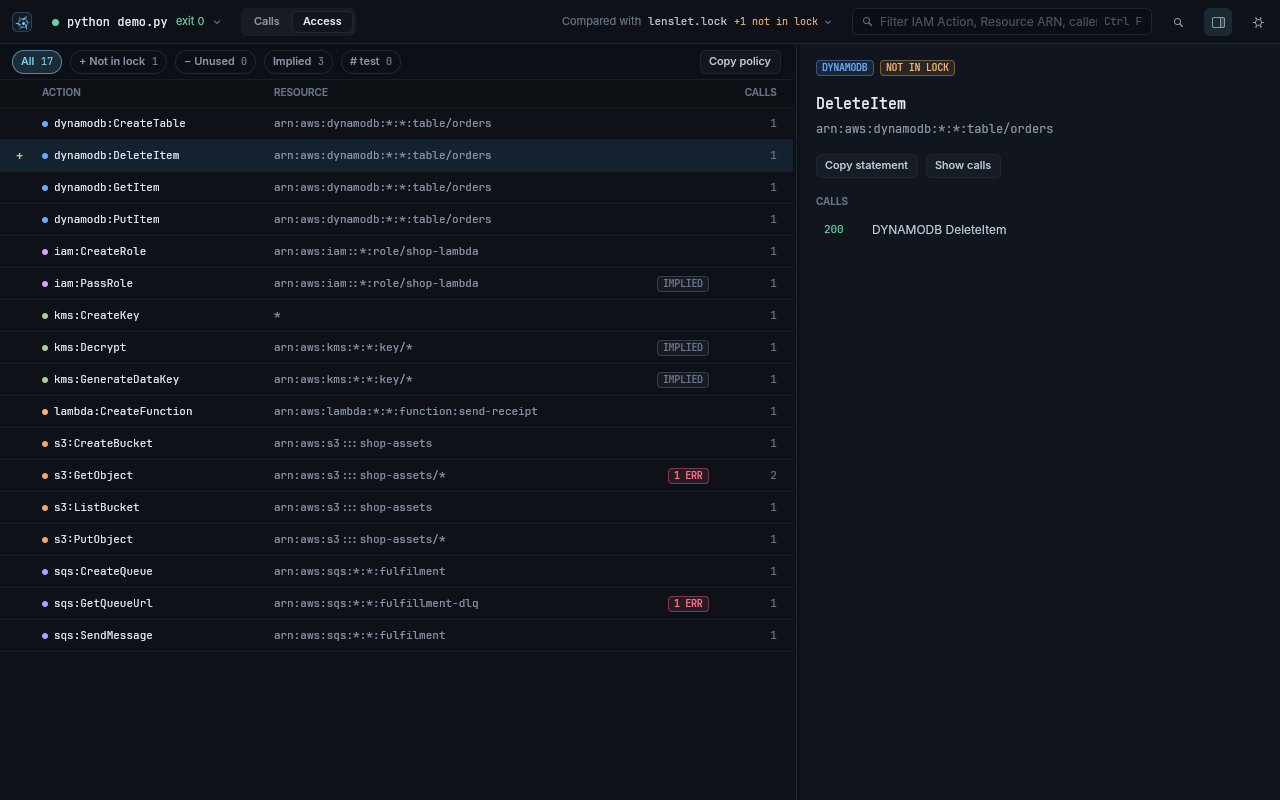
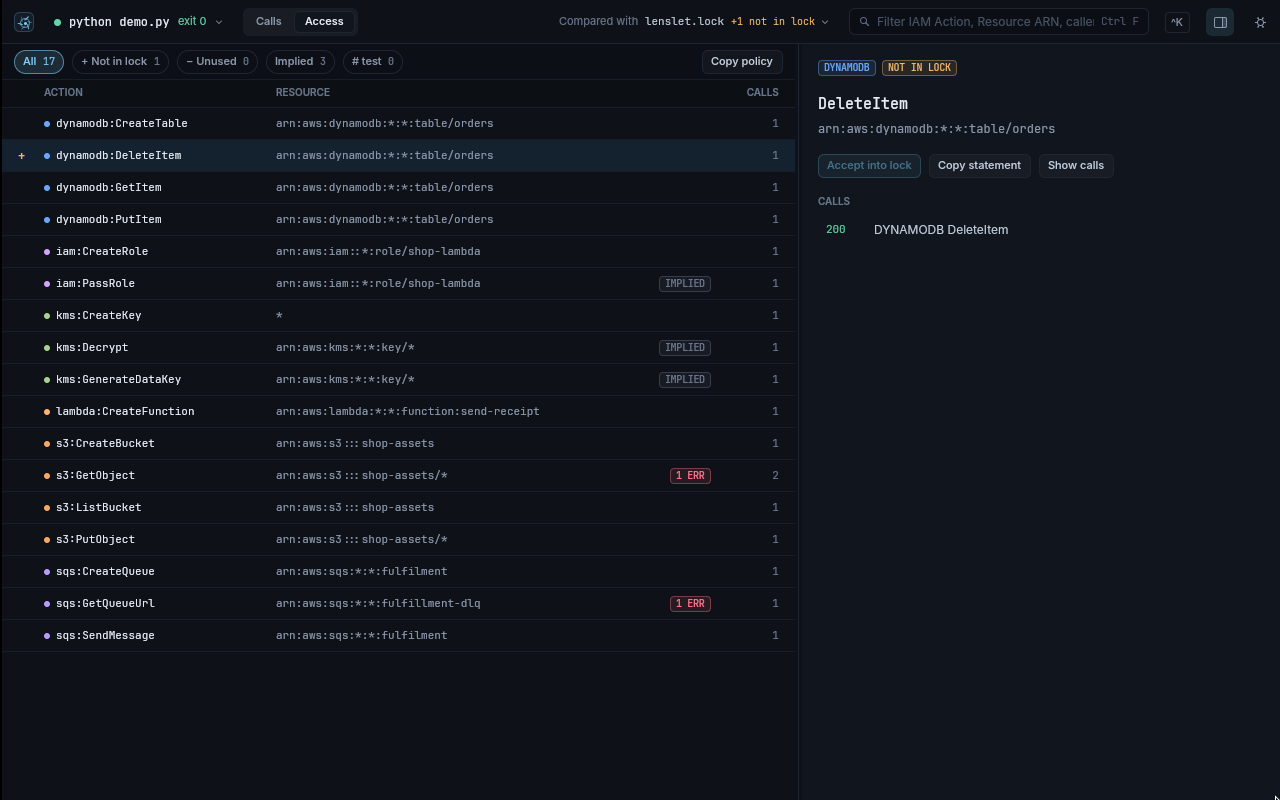
integrate the window with the 8.0 core
- Window lock edits go through lenslet_core::lock (atomic, canonical, one
  writer); marking a permission # test that the lock lacks accepts it as test.
- Follow the core schema additions (blocked_phase, unverified).
- Replays are experiments on top of a run: they no longer read as SDK
  retries, repeat failures or retry chains.
- Accept into lock stays visible (disabled, with the reason) when a run has
  no lock to write; the palette button is a ⌘K key-cap, not a second
  magnifier next to search.
- Screenshots retaken with live findings.

Claude-Session: https://claude.ai/code/session_01Ua4GqEsoxPpktcUePSRyBS

diff --git a/crates/ui/src/lockfile.rs b/crates/ui/src/lockfile.rs
@@ -5,12 +5,7 @@
 //! signatures match the `lenslet_core::lock` writers so they can be swapped
 //! for them. All of it is blocking IO: call from the background executor.
 
-use std::{
-    collections::BTreeSet,
-    fmt::Write as _,
-    fs,
-    path::{Path, PathBuf},
-};
+use std::path::{Path, PathBuf};
 
 use lenslet_core::{access::Access, lock::Lock};
 
@@ -40,118 +35,31 @@ pub fn read(path: &Path) -> anyhow::Result<Option<Lock>> {
 }
 
 /// Add permissions to the lock (`test` marks them `# test`). Returns how many
-/// were not already in it. Same signature as `lenslet_core::lock::accept`.
+/// were not already in it. The write is `lenslet_core::lock`'s: atomic and
+/// canonical, the same file `lenslet run --update` writes.
 pub fn accept(path: &Path, entries: &[(Access, bool)]) -> anyhow::Result<usize> {
     fsguard::assert_io_allowed();
-    let mut live = LiveLock::read(path)?;
-    let mut added = 0;
-    for (access, test) in entries {
-        if live.access.insert(access.clone()) {
-            added += 1;
-        }
-        if *test {
-            live.test.insert(access.clone());
-        }
-    }
-    live.write(path)?;
-    Ok(added)
+    lenslet_core::lock::accept(path, entries)
 }
 
-/// Mark or unmark a permission `# test` (adding it to the lock if missing).
-/// Returns whether the file changed. Same signature as
-/// `lenslet_core::lock::set_test_mark`.
+/// Mark or unmark a permission `# test`. Marking one the lock does not have
+/// yet accepts it as a test line. Returns whether the file changed.
 pub fn set_test_mark(path: &Path, access: &Access, test: bool) -> anyhow::Result<bool> {
     fsguard::assert_io_allowed();
-    let mut live = LiveLock::read(path)?;
-    let mut changed = live.access.insert(access.clone());
-    changed |= if test {
-        live.test.insert(access.clone())
-    } else {
-        live.test.remove(access)
-    };
-    if changed {
-        live.write(path)?;
+    if lenslet_core::lock::set_test_mark(path, access, test)? {
+        return Ok(true);
     }
-    Ok(changed)
-}
-
-/// The lock with the `implied` notes the core `Lock` does not keep.
-#[derive(Default)]
-struct LiveLock {
-    access: BTreeSet<Access>,
-    test: BTreeSet<Access>,
-    implied: BTreeSet<Access>,
-}
-
-impl LiveLock {
-    fn read(path: &Path) -> anyhow::Result<Self> {
-        let text = match fs::read_to_string(path) {
-            Ok(text) => text,
-            Err(error) if error.kind() == std::io::ErrorKind::NotFound => String::new(),
-            Err(error) => return Err(error.into()),
-        };
-        let lock = lenslet_core::lock::parse(&text);
-        let mut implied = BTreeSet::new();
-        for line in text.lines() {
-            let Some((entry, comment)) = line.split_once('#') else {
-                continue;
-            };
-            if comment
-                .split(|c: char| !c.is_ascii_alphanumeric())
-                .any(|word| word == "implied")
-            {
-                let mut fields = entry.split_whitespace();
-                if let Some(action) = fields.next() {
-                    implied.insert(Access::new(action, fields.next().unwrap_or("*")));
-                }
-            }
-        }
-        Ok(LiveLock {
-            access: lock.access,
-            test: lock.test,
-            implied,
-        })
+    let missing = read(path)?.is_none_or(|lock| !lock.access.contains(access));
+    if test && missing {
+        return Ok(lenslet_core::lock::accept(path, &[(access.clone(), true)])? > 0);
     }
-
-    fn write(&self, path: &Path) -> anyhow::Result<()> {
-        let width = self
-            .access
-            .iter()
-            .map(|a| a.action.len())
-            .max()
-            .unwrap_or(0);
-        let mut out = String::from(
-            "# AWS access observed by `lenslet run`: action, resource.\n\
-             # Regenerate with `lenslet run --update -- <tests>`; review changes like code.\n\
-             # Mark a line `# test` when only the tests need it; `lenslet policy` leaves it out.\n",
-        );
-        for entry in &self.access {
-            let _ = write!(out, "{:<width$}  {}", entry.action, entry.resource);
-            let mut notes = Vec::new();
-            if self.test.contains(entry) {
-                notes.push("test");
-            }
-            if self.implied.contains(entry) {
-                notes.push("implied");
-            }
-            if !notes.is_empty() {
-                let _ = write!(out, "  # {}", notes.join(", "));
-            }
-            out.push('\n');
-        }
-        if let Some(parent) = path.parent().filter(|p| !p.as_os_str().is_empty()) {
-            fs::create_dir_all(parent)?;
-        }
-        let tmp = path.with_extension("lock.tmp");
-        fs::write(&tmp, out)?;
-        fs::rename(&tmp, path)?;
-        Ok(())
-    }
+    Ok(false)
 }
 
 #[cfg(test)]
 mod tests {
     use super::*;
+    use std::fs;
 
     #[test]
     fn accepts_and_marks_permissions_keeping_notes() {

diff --git a/crates/ui/src/store.rs b/crates/ui/src/store.rs
@@ -34,6 +34,7 @@ struct AccessAgg {
     errors: usize,
     direct: usize,
     new: usize,
+    unverified: usize,
     via: Vec<String>,
 }
 
@@ -129,6 +130,7 @@ impl CallStore {
             step(&mut agg.errors, row.is_error());
             step(&mut agg.direct, !implied);
             step(&mut agg.new, row.is_access_new(call_access));
+            step(&mut agg.unverified, call_access.unverified);
             if add && agg.via.len() < 3 {
                 let via = format!("{} {}", row.service_name(), operation_label(row));
                 if !agg.via.contains(&via) {
@@ -229,12 +231,17 @@ impl CallStore {
 
     /// Ids of the calls in the same SDK invocation as `trace`, in order.
     pub fn invocation_peers(&self, trace: &Trace) -> Vec<Arc<Trace>> {
-        let Some(id) = trace.invocation_id.as_deref() else {
+        // A replay re-sends the original invocation id but is not a retry.
+        let Some(id) = trace
+            .invocation_id
+            .as_deref()
+            .filter(|_| trace.replay_of.is_none())
+        else {
             return Vec::new();
         };
         self.rows
             .iter()
-            .filter(|row| row.invocation_id.as_deref() == Some(id))
+            .filter(|row| row.replay_of.is_none() && row.invocation_id.as_deref() == Some(id))
             .cloned()
             .collect()
     }
@@ -250,6 +257,7 @@ impl CallStore {
                     calls: agg.calls,
                     errors: agg.errors,
                     implied: agg.direct == 0,
+                    unverified: agg.unverified > 0,
                     via: agg.via.clone(),
                 },
                 new: agg.new > 0,
@@ -510,6 +518,7 @@ pub fn policy_json(rows: &[AccessRow]) -> String {
             .filter(|row| row.test)
             .map(|row| row.access.clone())
             .collect(),
+        ..Lock::default()
     };
     serde_json::to_string_pretty(&lenslet_core::lock::policy(&lock)).unwrap_or_else(|_| "{}".into())
 }

diff --git a/crates/core/src/findings.rs b/crates/core/src/findings.rs
@@ -70,7 +70,12 @@ pub fn analyze<'a>(calls: impl IntoIterator<Item = &'a Trace>) -> Vec<Finding> {
 /// [`analyze`], naming `gate` (the lock or policy file the run was compared
 /// with) in access findings.
 pub fn analyze_against<'a>(calls: impl IntoIterator<Item = &'a Trace>, gate: &str) -> Vec<Finding> {
-    let calls: Vec<&Trace> = calls.into_iter().filter(|call| !call.pending).collect();
+    // Replays sent from the window are experiments on top of the run, not
+    // part of what the tests did: they would read as retries and repeats.
+    let calls: Vec<&Trace> = calls
+        .into_iter()
+        .filter(|call| !call.pending && call.replay_of.is_none())
+        .collect();
     let mut found = Vec::new();
     failures(&calls, &mut found);
     access(&calls, gate, &mut found);
@@ -648,6 +653,25 @@ mod tests {
             retries.title,
             "DYNAMODB PutItem retried ×3 → ThrottlingException"
         );
+    }
+
+    #[test]
+    fn replays_from_the_window_are_not_retries_or_repeats() {
+        let mut original = failing(
+            call("o", "sqs", "GetQueueUrl", 0, 1),
+            400,
+            "QueueDoesNotExist",
+            None,
+        );
+        original.invocation_id = Some("inv".into());
+        let mut replay = original.clone();
+        replay.id = "r".into();
+        replay.at = call("r", "sqs", "GetQueueUrl", 50, 1).at;
+        replay.replay_of = Some("o".into());
+        let findings = analyze(&[original, replay]);
+        assert_eq!(findings.len(), 1, "{findings:?}");
+        assert_eq!(findings[0].kind, FindingKind::Failure);
+        assert_eq!(findings[0].calls, ["o"]);
     }
 
     #[test]

diff --git a/crates/ui/src/model.rs b/crates/ui/src/model.rs
@@ -164,6 +164,9 @@ pub struct Trace {
     /// Blocked locally by `--enforce` before reaching the emulator.
     #[serde(default)]
     pub blocked: bool,
+    /// When `--enforce` blocked it: before the emulator, or after (response).
+    #[serde(default)]
+    pub blocked_phase: Option<lenslet_core::trace::BlockedPhase>,
     /// Re-sent from the window: the id of the call this replays.
     #[serde(default)]
     pub replay_of: Option<String>,
@@ -455,6 +458,7 @@ impl Trace {
             implied: self.implied.clone(),
             new: self.new,
             blocked: self.blocked,
+            blocked_phase: self.blocked_phase,
             replay_of: self.replay_of.clone(),
             request: message(self.request.as_ref()),
             response: message(self.response.as_ref()),
@@ -1421,6 +1425,7 @@ mod tests {
                 action: "s3:GetObject".into(),
                 resource: "arn:aws:s3:::shop-assets/*".into(),
                 new: true,
+                unverified: false,
             }],
             implied: vec![CallAccess::from(Access::new("kms:Decrypt", "*"))],
             new: true,

diff --git a/crates/ui/src/app/access.rs b/crates/ui/src/app/access.rs
@@ -640,6 +640,20 @@ impl Render for AccessDetail {
                         session.update(cx, |session, cx| session.accept(entries, cx));
                     }),
             );
+        } else if row.used && !row.in_lock {
+            // Shown, not hidden: the action exists, this run just has no lock to write.
+            actions = actions.child(
+                widgets::primary_button(&ui, "accept", ui.t("Accept into lock", "写入 lock"))
+                    .opacity(0.45)
+                    .cursor_default()
+                    .tooltip(widgets::tip(
+                        ui.t(
+                            "This run has no lenslet.lock to write: it is checked against an IAM policy, or its project folder is unknown",
+                            "此运行没有可写的 lenslet.lock：它按 IAM policy 检查，或项目目录未知",
+                        ),
+                        None,
+                    )),
+            );
         }
         if editable && (row.in_lock || row.used) {
             let session = self.session.clone();

diff --git a/crates/ui/src/app/mod.rs b/crates/ui/src/app/mod.rs
@@ -810,9 +810,23 @@ impl LensletApp {
                 widgets::icon_button(
                     ui,
                     "palette",
-                    false,
-                    glyph::search_icon(theme::h(t.text_dim, 1.0)),
+                    self.palette_open,
+                    div()
+                        .px(px(5.0))
+                        .py(px(1.0))
+                        .rounded(px(4.0))
+                        .border_1()
+                        .border_color(rgb(t.border))
+                        .text_size(px(10.5))
+                        .text_color(theme::h(t.text_dim, 1.0))
+                        .child(if cfg!(target_os = "macos") {
+                            "⌘K"
+                        } else {
+                            "^K"
+                        }),
                 )
+                .w_auto()
+                .px(px(4.0))
                 .tooltip(widgets::tip(
                     ui.t("Commands", "命令"),
                     Some(i18n::shortcut("K")),

diff --git a/crates/core/src/summary.rs b/crates/core/src/summary.rs
@@ -307,10 +307,12 @@ impl Summary {
         self.pending.remove(&trace.id);
         self.unfinished = self.pending.len();
         self.calls += 1;
-        let seen_invocation = trace
-            .invocation_id
-            .as_ref()
-            .is_some_and(|id| !self.invocations.insert(id.clone()));
+        // A replay re-sends its call's invocation id; it is not an SDK retry.
+        let seen_invocation = trace.replay_of.is_none()
+            && trace
+                .invocation_id
+                .as_ref()
+                .is_some_and(|id| !self.invocations.insert(id.clone()));
         let retried = trace.attempt.is_some_and(|attempt| attempt > 1) || seen_invocation;
         if retried {
             self.retries += 1;
